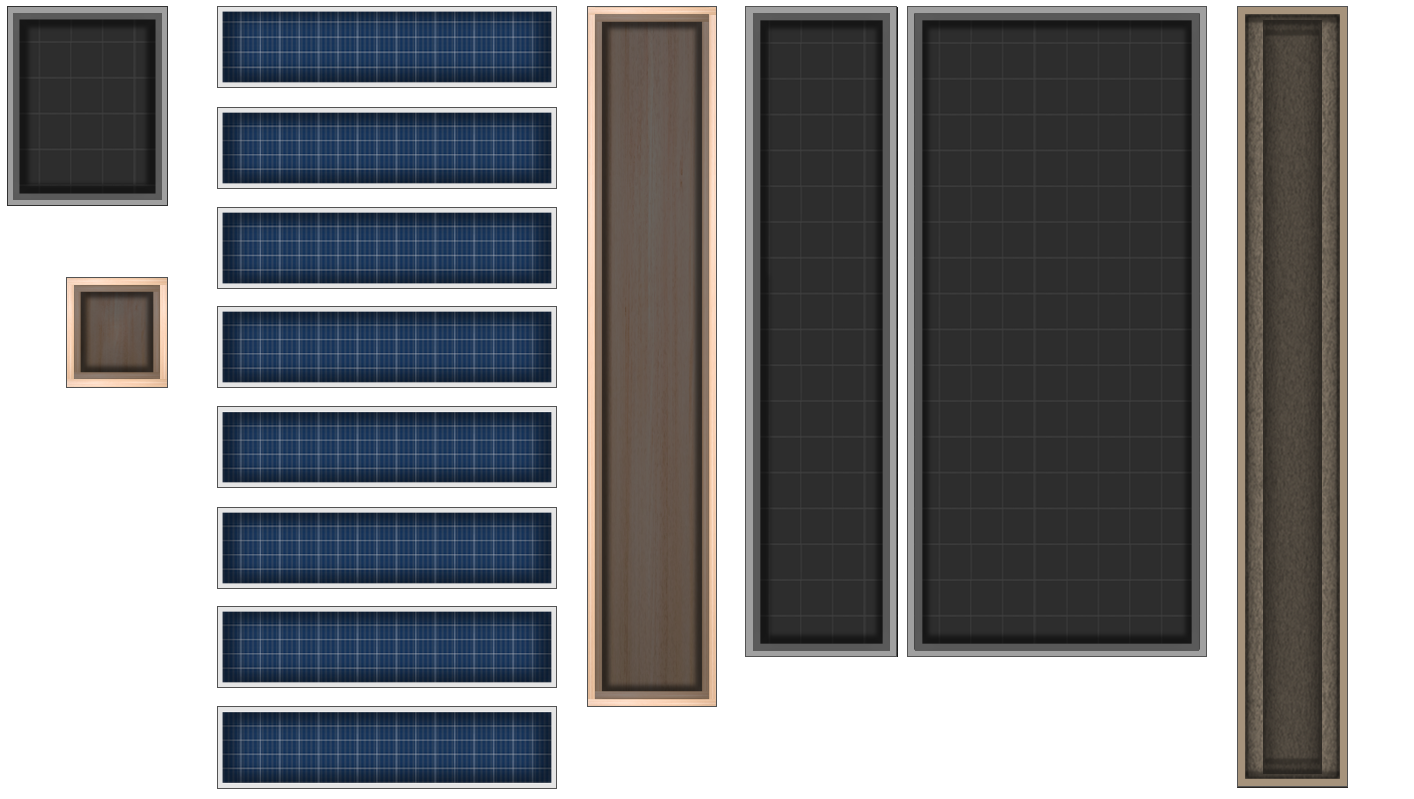
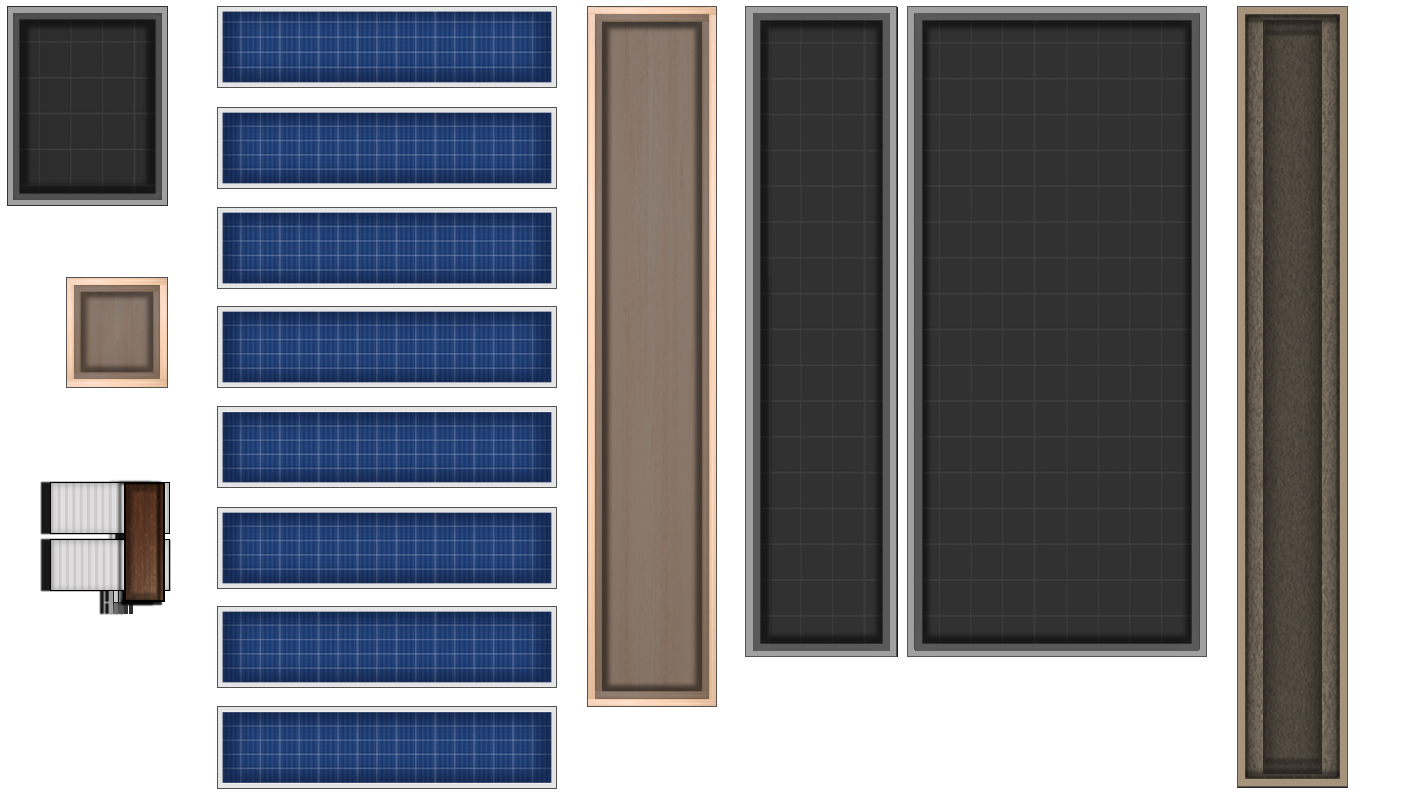
@ 일러스트 밝기 조절, vip100kw map 수정

Changed region(s): [[0.1556, 0.0, 0.4979, 0.9912], [0.0311, 0.6008, 0.1245, 0.781], [0.0311, 0.3605, 0.1245, 0.4806]]

diff --git a/src/maps/upsas/vip_muan100kW/index.js b/src/maps/upsas/vip_muan100kW/index.js
@@ -24,67 +24,67 @@ const map = {
         {
           id: 'solarEvaporationBlock',
           type: 'rect',
-          elementDrawInfo: { width: 340, height: 80, color: '#abe3e1', opacity: 0 },
+          elementDrawInfo: { width: 340, height: 80, color: '#abe3e1', opacity: 1 },
           textStyleInfo: { color: '', fontSize: 10 },
         },
         {
           id: 'normalEvaporationBlock_A',
           type: 'rect',
-          elementDrawInfo: { width: 300, height: 650, color: '#bd8f3a', opacity: 0 },
+          elementDrawInfo: { width: 300, height: 650, color: '#bd8f3a', opacity: 1 },
           textStyleInfo: { color: '', fontSize: 10 },
         },
         {
           id: 'normalEvaporationBlock_B',
           type: 'rect',
-          elementDrawInfo: { width: 150, height: 650, color: '#bd8f3a', opacity: 0 },
+          elementDrawInfo: { width: 150, height: 650, color: '#bd8f3a', opacity: 1 },
           textStyleInfo: { color: '', fontSize: 10 },
         },
         {
           id: 'normalCrystalizingBlock',
           type: 'rect',
-          elementDrawInfo: { width: 160, height: 200, color: '#988224', opacity: 0 },
+          elementDrawInfo: { width: 160, height: 200, color: '#988224', opacity: 1 },
           textStyleInfo: { color: '', fontSize: 10 },
         },
         {
           id: 'reservoir_A',
           type: 'rect',
-          elementDrawInfo: { width: 110, height: 780, color: 'blue', opacity: 0 },
+          elementDrawInfo: { width: 110, height: 780, color: 'blue', opacity: 1 },
           textStyleInfo: { color: '', fontSize: 10 },
         },
         {
           id: 'reservoir_B',
           type: 'rect',
-          elementDrawInfo: { width: 180, height: 90, color: 'blue', opacity: 0 },
+          elementDrawInfo: { width: 180, height: 90, color: 'blue', opacity: 1 },
           textStyleInfo: { color: '', fontSize: 10 },
         },
         {
           id: 'drainage',
           type: 'rect',
-          elementDrawInfo: { width: 80, height: 90, color: 'skyblue', opacity: 0 },
+          elementDrawInfo: { width: 80, height: 90, color: 'skyblue', opacity: 1 },
           textStyleInfo: { color: '', fontSize: 10 },
         },
         {
           id: 'brineWarehouse_A',
           type: 'rect',
-          elementDrawInfo: { width: 130, height: 700, color: '#90b4dd', opacity: 0 },
+          elementDrawInfo: { width: 130, height: 700, color: '#90b4dd', opacity: 1 },
           textStyleInfo: { color: '', fontSize: 10 },
         },
         {
           id: 'brineWarehouse_B',
           type: 'rect',
-          elementDrawInfo: { width: 200, height: 80, color: '#90b4dd', opacity: 0 },
+          elementDrawInfo: { width: 200, height: 80, color: '#90b4dd', opacity: 1 },
           textStyleInfo: { color: '', fontSize: 10 },
         },
         {
           id: 'brineWarehouse_C',
           type: 'rect',
-          elementDrawInfo: { width: 120, height: 80, color: '#90b4dd', opacity: 0 },
+          elementDrawInfo: { width: 120, height: 80, color: '#90b4dd', opacity: 1 },
           textStyleInfo: { color: '', fontSize: 10 },
         },
         {
           id: 'brineWarehouse_D',
           type: 'rect',
-          elementDrawInfo: { width: 100, height: 110, color: '#90b4dd', opacity: 0 },
+          elementDrawInfo: { width: 100, height: 110, color: '#90b4dd', opacity: 1 },
           textStyleInfo: { color: '', fontSize: 10 },
         },
         {
@@ -223,37 +223,37 @@ const map = {
               id: 'SEB_2',
               name: '증발지_2',
               resourceId: 'solarEvaporationBlock',
-              point: [220, 110],
+              point: [220, 100],
             },
             {
               id: 'SEB_3',
               name: '증발지_3',
               resourceId: 'solarEvaporationBlock',
-              point: [220, 210],
+              point: [220, 215],
             },
             {
               id: 'SEB_4',
               name: '증발지_4',
               resourceId: 'solarEvaporationBlock',
-              point: [220, 310],
+              point: [220, 305],
             },
             {
               id: 'SEB_5',
               name: '증발지_5',
               resourceId: 'solarEvaporationBlock',
-              point: [220, 410],
+              point: [220, 415],
             },
             {
               id: 'SEB_6',
               name: '증발지_6',
               resourceId: 'solarEvaporationBlock',
-              point: [220, 510],
+              point: [220, 505],
             },
             {
               id: 'SEB_7',
               name: '증발지_7',
               resourceId: 'solarEvaporationBlock',
-              point: [220, 610],
+              point: [220, 620],
             },
             {
               id: 'SEB_8',
